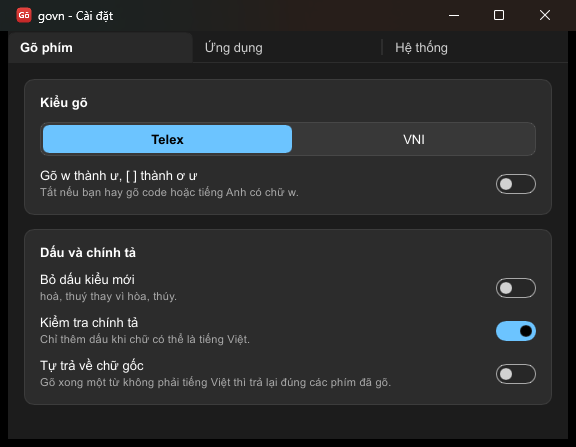
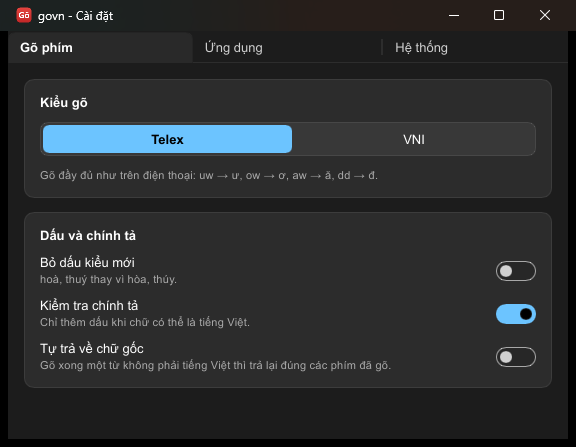
Full tray menu again; Telex without shortcuts only
The tray menu has every option again: typing method, modern tone
placement, spelling, auto-restore, suggestion fix, start with Windows,
admin mode, settings, update check and quit.

Telex is now always the engine's Simple Telex: marks are typed in full
(uw, ow, aw) as on phone keyboards, while w alone and [ ] stay as typed.
The "w -> ư" switch and the Simple Telex menu items are gone; settings
files that say simple or simple2 read as Telex.

diff --git a/app/src/tray.rs b/app/src/tray.rs
@@ -3,7 +3,7 @@
 //! `STATE` is never kept borrowed across a Win32 call that can pump messages, because the keyboard
 //! hook runs on this same thread and borrows it too.
 use crate::admin;
-use crate::config::{AppMemory, Hotkey, Settings, SuggestionFix};
+use crate::config::{self, AppMemory, Hotkey, Settings, SuggestionFix};
 use crate::tray_ids::*;
 use crate::update::{self, Check};
 use crate::{apply_settings, current_settings, wide, STATE};
@@ -30,7 +30,7 @@ use windows_sys::Win32::UI::Shell::{
 use windows_sys::Win32::UI::WindowsAndMessaging::{
     AppendMenuW, ChangeWindowMessageFilterEx, CheckMenuRadioItem, CreateIconIndirect, CreatePopupMenu, CreateWindowExW, DefWindowProcW, DestroyMenu, EnableMenuItem, GetCursorPos,
     GetSystemMetrics, MessageBoxW, PostMessageW, PostQuitMessage, RegisterClassW, RegisterWindowMessageW,
-    SetForegroundWindow, TrackPopupMenu, HICON, HMENU, ICONINFO, MB_ICONERROR, MB_ICONWARNING, MB_OK, MB_YESNO, MF_BYCOMMAND, MF_CHECKED, MF_GRAYED, MSGFLT_ALLOW, IDYES, MF_SEPARATOR,
+    SetForegroundWindow, TrackPopupMenu, HICON, HMENU, ICONINFO, MB_ICONERROR, MB_ICONWARNING, MB_OK, MB_YESNO, MF_BYCOMMAND, MF_CHECKED, MF_GRAYED, MSGFLT_ALLOW, IDYES, MF_POPUP, MF_SEPARATOR,
     MB_ICONINFORMATION, MF_STRING, SM_CXSMICON, TPM_RETURNCMD, TPM_RIGHTBUTTON, WM_COMMAND, WM_LBUTTONDBLCLK, WM_LBUTTONUP, WM_NULL, WM_RBUTTONUP, WNDCLASSW,
     WS_POPUP,
 };
@@ -145,12 +145,7 @@ fn copy_utf16(dst: &mut [u16], text: &str) {
 }
 
 fn method_name(m: InputMethod) -> &'static str {
-    match m {
-        InputMethod::Telex => "Telex",
-        InputMethod::Vni => "VNI",
-        InputMethod::SimpleTelex => "Simple Telex",
-        InputMethod::SimpleTelex2 => "Simple Telex 2",
-    }
+    if m == InputMethod::Vni { "VNI" } else { "Telex" }
 }
 
 unsafe fn icon_data() -> NOTIFYICONDATAW {
@@ -474,14 +469,8 @@ fn run_command(cmd: usize) {
                 let on = !st.engine.viet_key;
                 crate::set_viet(st, on);
             }
-            // Any Telex variant already counts as Telex; from VNI, take the default variant (w stays w).
-            CMD_TELEX if st.engine.input_method() == InputMethod::Vni => {
-                st.engine.set_input_method(InputMethod::SimpleTelex)
-            }
-            CMD_TELEX => {}
+            CMD_TELEX => st.engine.set_input_method(config::TELEX),
             CMD_VNI => st.engine.set_input_method(InputMethod::Vni),
-            CMD_SIMPLE => st.engine.set_input_method(InputMethod::SimpleTelex),
-            CMD_SIMPLE2 => st.engine.set_input_method(InputMethod::SimpleTelex2),
             CMD_MODERN => options.modern_style = !options.modern_style,
             CMD_SPELL => options.spell_check = !options.spell_check,
             CMD_RESTORE => options.auto_non_vn_restore = !options.auto_non_vn_restore,
@@ -506,26 +495,52 @@ unsafe fn add_item(menu: HMENU, id: usize, text: &str, checked: bool) {
     AppendMenuW(menu, flags, id, wide(text).as_ptr());
 }
 
-/// The everyday switches only; everything else is in the settings window. The other commands still
-/// work when posted, which the end-to-end test relies on.
 unsafe fn show_menu() {
     let (Some(s), Some((viet, _))) = (snapshot(), shown_state()) else { return };
     let has_settings = STATE.with_borrow(|st| st.as_ref().is_some_and(|st| st.config_path.is_some()));
+
+    let admin_on = ADMIN_ENABLED.get();
+    let autostart = admin_on || autostart_get(&autostart_key()).is_some();
+
+    // Every option stays reachable from here; the settings window is a roomier view of the same.
+    let methods = CreatePopupMenu();
+    add_item(methods, CMD_TELEX, "Telex", false);
+    add_item(methods, CMD_VNI, "VNI", false);
+    let method_id = if s.method == InputMethod::Vni { CMD_VNI } else { CMD_TELEX };
+    CheckMenuRadioItem(methods, CMD_TELEX as u32, CMD_VNI as u32, method_id as u32, MF_BYCOMMAND);
+
+    let fixes = CreatePopupMenu();
+    add_item(fixes, CMD_FIX_AUTO, "Tự động (trình duyệt, Excel)", false);
+    add_item(fixes, CMD_FIX_ALWAYS, "Luôn bật", false);
+    add_item(fixes, CMD_FIX_NEVER, "Tắt", false);
+    let fix_id = match s.suggestion_fix {
+        SuggestionFix::Auto => CMD_FIX_AUTO,
+        SuggestionFix::Always => CMD_FIX_ALWAYS,
+        SuggestionFix::Never => CMD_FIX_NEVER,
+    };
+    CheckMenuRadioItem(fixes, CMD_FIX_AUTO as u32, CMD_FIX_NEVER as u32, fix_id as u32, MF_BYCOMMAND);
 
     let menu = CreatePopupMenu();
     let toggle = if s.hotkey == Hotkey::None { "Tiếng Việt".to_string() } else { format!("Tiếng Việt\t{}", s.hotkey.label()) };
     add_item(menu, CMD_TOGGLE, &toggle, viet);
     AppendMenuW(menu, MF_SEPARATOR, 0, null());
-    add_item(menu, CMD_TELEX, "Telex", false);
-    add_item(menu, CMD_VNI, "VNI", false);
-    // Simple Telex is a Telex option in the settings window.
-    let method_id = if s.method == InputMethod::Vni { CMD_VNI } else { CMD_TELEX };
-    CheckMenuRadioItem(menu, CMD_TELEX as u32, CMD_VNI as u32, method_id as u32, MF_BYCOMMAND);
+    AppendMenuW(menu, MF_POPUP, methods as usize, wide(&format!("Kiểu gõ: {}", method_name(s.method))).as_ptr());
+    add_item(menu, CMD_MODERN, "Bỏ dấu kiểu mới (oà, uý)", s.modern_style);
+    add_item(menu, CMD_SPELL, "Kiểm tra chính tả", s.spell_check);
+    add_item(menu, CMD_RESTORE, "Tự trả về chữ gốc khi không phải tiếng Việt", s.auto_restore);
+    AppendMenuW(menu, MF_POPUP, fixes as usize, wide("Sửa lỗi gợi ý tự động").as_ptr());
+    AppendMenuW(menu, MF_SEPARATOR, 0, null());
+    add_item(menu, CMD_AUTOSTART, "Khởi động cùng Windows", autostart);
+    if admin_on {
+        EnableMenuItem(menu, CMD_AUTOSTART as u32, MF_BYCOMMAND | MF_GRAYED);
+    }
+    add_item(menu, CMD_ADMIN, "Chạy với quyền admin", admin_on);
     AppendMenuW(menu, MF_SEPARATOR, 0, null());
     add_item(menu, CMD_SETTINGS, "Cài đặt...", false);
     if !has_settings {
         EnableMenuItem(menu, CMD_SETTINGS as u32, MF_BYCOMMAND | MF_GRAYED);
     }
+    add_item(menu, CMD_CHECK_UPDATE, "Kiểm tra cập nhật", false);
     add_item(menu, CMD_QUIT, "Thoát\tCtrl+Alt+Shift+Q", false);
 
     let window = WINDOW.get();

diff --git a/app/src/config.rs b/app/src/config.rs
@@ -69,8 +69,7 @@ impl Default for Settings {
         let o = Options::default();
         Settings {
             viet: true,
-            // w alone stays w: fewer surprises when typing English or code.
-            method: InputMethod::SimpleTelex,
+            method: TELEX,
             modern_style: o.modern_style,
             spell_check: o.spell_check,
             auto_restore: o.auto_non_vn_restore,
@@ -133,12 +132,7 @@ impl Settings {
     }
 
     pub fn serialize(&self) -> String {
-        let method = match self.method {
-            InputMethod::Telex => "telex",
-            InputMethod::Vni => "vni",
-            InputMethod::SimpleTelex => "simple",
-            InputMethod::SimpleTelex2 => "simple2",
-        };
+        let method = if self.method == InputMethod::Vni { "vni" } else { "telex" };
         let fix = match self.suggestion_fix {
             SuggestionFix::Auto => "auto",
             SuggestionFix::Always => "always",
@@ -226,12 +220,15 @@ impl AppMemory {
     }
 }
 
+/// govn's Telex: every mark is typed in full (`uw` for ư, `ow` for ơ), as on phone keyboards.
+/// `w` alone and `[ ]` stay as typed; the engine's shortcut variants are not offered.
+pub const TELEX: InputMethod = InputMethod::SimpleTelex;
+
+/// Older versions wrote "simple" and "simple2" too; all Telex variants now mean [`TELEX`].
 pub fn parse_method(v: &str) -> Option<InputMethod> {
     match v {
-        "telex" => Some(InputMethod::Telex),
+        "telex" | "simple" | "simple2" => Some(TELEX),
         "vni" => Some(InputMethod::Vni),
-        "simple" => Some(InputMethod::SimpleTelex),
-        "simple2" => Some(InputMethod::SimpleTelex2),
         _ => None,
     }
 }
@@ -271,6 +268,17 @@ mod tests {
             let s = Settings { hotkey: h, ..Settings::default() };
             assert_eq!(Settings::parse(&s.serialize()).hotkey, h);
         }
+    }
+
+    #[test]
+    fn every_telex_variant_reads_as_telex() {
+        for old in ["telex", "simple", "simple2"] {
+            let s = Settings::parse(&format!("method={old}\n"));
+            assert_eq!(s.method, TELEX, "{old}");
+            assert!(s.serialize().contains("method=telex\n"));
+        }
+        assert_eq!(Settings::default().method, TELEX);
+        assert_eq!(Settings::parse("method=vni\n").method, InputMethod::Vni);
     }
 
     #[test]
@@ -316,7 +324,7 @@ mod tests {
     fn save_and_load() {
         let dir = std::env::temp_dir().join(format!("govn-config-test-{}", std::process::id()));
         let path = dir.join("nested").join("settings.ini");
-        let s = Settings { method: InputMethod::SimpleTelex2, english_apps: vec!["a.exe".into()], ..Settings::default() };
+        let s = Settings { method: InputMethod::Vni, english_apps: vec!["a.exe".into()], ..Settings::default() };
         s.save(&path).unwrap();
         assert_eq!(Settings::load(&path), s);
         let mem_path = AppMemory::path_for(&path);

diff --git a/app/src/settings.rs b/app/src/settings.rs
@@ -50,14 +50,8 @@ fn edit(path: &Path, change: impl FnOnce(&mut Settings)) -> bool {
     true
 }
 
-fn method_from(ui: &SettingsWindow, previous: InputMethod) -> InputMethod {
-    match (ui.get_method(), ui.get_w_shortcuts()) {
-        (1, _) => InputMethod::Vni,
-        // Simple Telex 2 (w but no brackets) is kept for those who chose it in an older version.
-        (_, true) if previous == InputMethod::SimpleTelex2 => InputMethod::SimpleTelex2,
-        (_, true) => InputMethod::Telex,
-        (_, false) => InputMethod::SimpleTelex,
-    }
+fn method_from(ui: &SettingsWindow) -> InputMethod {
+    if ui.get_method() == 1 { InputMethod::Vni } else { crate::config::TELEX }
 }
 
 /// The "File description" in a program's version information, such as "Visual Studio Code".
@@ -200,8 +194,6 @@ pub fn run(path: PathBuf, task: String, autostart_key: String) -> i32 {
     let path = Rc::new(path);
 
     ui.set_method(i32::from(s.method == InputMethod::Vni));
-    // Under VNI the switch shows the default, which is also what choosing Telex gives.
-    ui.set_w_shortcuts(matches!(s.method, InputMethod::Telex | InputMethod::SimpleTelex2));
     ui.set_modern_style(s.modern_style);
     ui.set_spell_check(s.spell_check);
     ui.set_auto_restore(s.auto_restore);
@@ -230,7 +222,7 @@ pub fn run(path: PathBuf, task: String, autostart_key: String) -> i32 {
         move || {
             let Some(ui) = ui.upgrade() else { return };
             edit(&path, |s| {
-                s.method = method_from(&ui, s.method);
+                s.method = method_from(&ui);
                 s.modern_style = ui.get_modern_style();
                 s.spell_check = ui.get_spell_check();
                 s.auto_restore = ui.get_auto_restore();

diff --git a/engine/tests/typing.rs b/engine/tests/typing.rs
@@ -162,3 +162,26 @@ fn no_key_sequence_panics() {
         }
     }
 }
+
+/// govn offers Telex as the engine's Simple Telex: marks typed in full, no `w` or `[ ]` shortcuts.
+#[test]
+fn simple_telex_has_no_shortcuts() {
+    let mut e = Engine::new();
+    e.set_input_method(InputMethod::SimpleTelex);
+    for (keys, want) in [
+        ("w", "w"),
+        ("[", "["),
+        ("]", "]"),
+        ("windows", "windows"),
+        ("uw", "ư"),
+        ("ow", "ơ"),
+        ("aw", "ă"),
+        ("tuw", "tư"),
+        ("nguoiwf", "người"),
+        ("dduwowngf", "đường"),
+        ("tieengs vieetj", "tiếng việt"),
+    ] {
+        e.reset();
+        assert_eq!(type_all(&mut e, keys), want, "{keys}");
+    }
+}

diff --git a/app/src/main.rs b/app/src/main.rs
@@ -445,7 +445,7 @@ fn wide(s: &str) -> Vec<u16> {
     s.encode_utf16().chain(std::iter::once(0)).collect()
 }
 
-const USAGE: &str = "govn [--method telex|vni|simple|simple2] [--modern] [--no-spell-check] [--auto-restore] [--off] [--suggestion-fix auto|always|never] [--config <file>] [--settings]";
+const USAGE: &str = "govn [--method telex|vni] [--modern] [--no-spell-check] [--auto-restore] [--off] [--suggestion-fix auto|always|never] [--config <file>] [--settings]";
 
 /// Command-line values override the saved settings.
 #[derive(Default)]

diff --git a/app/src/tray_ids.rs b/app/src/tray_ids.rs
@@ -18,8 +18,6 @@ pub const WM_RELOAD: u32 = WM_APP + 5;
 pub const CMD_TOGGLE: usize = 1001;
 pub const CMD_TELEX: usize = 1010;
 pub const CMD_VNI: usize = 1011;
-pub const CMD_SIMPLE: usize = 1012;
-pub const CMD_SIMPLE2: usize = 1013;
 pub const CMD_MODERN: usize = 1020;
 pub const CMD_SPELL: usize = 1021;
 pub const CMD_RESTORE: usize = 1022;

diff --git a/CLAUDE.md b/CLAUDE.md
@@ -24,9 +24,10 @@ Cửa sổ Cài đặt là tiến trình riêng: `govn.exe --settings --config <
 
 ## Ràng buộc khi sửa
 
-- **Telex và VNI là hai kiểu gõ duy nhất trên giao diện.** SimpleTelex/SimpleTelex2 vẫn có trong engine; nút "Gõ w thành ư" trong Cài đặt chọn giữa Telex và SimpleTelex, và giữ nguyên SimpleTelex2 nếu người dùng đã chọn từ bản cũ.
+- **Chỉ có Telex và VNI, không có kiểu gõ tắt.** Telex của govn là `InputMethod::SimpleTelex` của engine (`config::TELEX`): gõ đầy đủ như trên điện thoại (`uw` → ư, `ow` → ơ); `w` đứng riêng và `[ ]` giữ nguyên. Telex/SimpleTelex2 của engine không đưa ra giao diện; file cài đặt cũ ghi `simple`, `simple2` đều đọc thành Telex.
+- **Menu khay giữ đủ mọi tùy chọn** (người dùng muốn ai thích chỉnh gì thì chỉnh ngay ở đó); cửa sổ Cài đặt là chỗ rộng hơn cho cùng các tùy chọn, cộng danh sách ứng dụng và phím tắt.
 - **Không thêm gõ tắt** và các tính năng phụ kiểu đó; người dùng đã quyết định giữ app gọn.
-- **Mặc định:** Simple Telex (`w` đứng riêng vẫn là `w`; chọn Telex khi đang ở VNI cũng ra Simple Telex), bỏ dấu kiểu cũ, phím tắt Ctrl+Shift. Chỉ đổi khi người dùng yêu cầu, vì đổi mặc định là đổi hành vi với người mới cài.
+- **Mặc định:** Telex, bỏ dấu kiểu cũ, phím tắt Ctrl+Shift. Chỉ đổi khi người dùng yêu cầu, vì đổi mặc định là đổi hành vi với người mới cài.
 - **Mạng:** `update.rs` là kết nối mạng duy nhất và chỉ chạy khi người dùng bấm. Không gửi gì liên quan tới phím đã gõ, không tự tải hay tự cài.
 - **Engine:** chuỗi phím bất kỳ không được panic. Khi đổi logic engine, chạy `tools/difftest.py` so với bản C++ gốc.
 

diff --git a/README.md b/README.md
@@ -23,9 +23,9 @@ Chạy `govn.exe`: không có cửa sổ, chỉ có icon ở khay hệ thống. 
 
 - Icon **V** đỏ: tiếng Việt. Icon **E** xám: English.
 - Nhấp trái icon hoặc nhấn phím tắt (mặc định Ctrl+Shift): bật/tắt.
-- Nhấp phải icon: bật/tắt, Telex/VNI, Cài đặt, thoát. Nhấp đúp icon cũng mở Cài đặt.
+- Nhấp phải icon: menu có đủ mọi tùy chọn (kiểu gõ, bỏ dấu, chính tả, sửa lỗi gợi ý, khởi động cùng Windows, quyền admin, kiểm tra cập nhật), cùng mục Cài đặt và Thoát. Nhấp đúp icon cũng mở Cài đặt.
 - Cửa sổ Cài đặt:
-  - **Gõ phím:** Telex/VNI, gõ `w` thành `ư` và `[ ]` thành `ơ ư` (mặc định tắt, tức Simple Telex), bỏ dấu kiểu mới, kiểm tra chính tả, tự trả về chữ gốc.
+  - **Gõ phím:** Telex hoặc VNI, bỏ dấu kiểu mới, kiểm tra chính tả, tự trả về chữ gốc.
   - **Ứng dụng:** danh sách ứng dụng luôn gõ tiếng Anh, chọn từ các cửa sổ đang mở (ghi tên ứng dụng kèm tên file, như "Visual Studio Code (code.exe)"); nhớ tiếng Việt/tiếng Anh theo từng ứng dụng.
   - **Hệ thống:** phím tắt (Ctrl+Shift, Ctrl+Alt, Alt+Z hoặc không dùng), khởi động cùng Windows, chạy với quyền admin, kiểm tra cập nhật.
 
@@ -39,7 +39,7 @@ Cài đặt lưu ở `%APPDATA%\govn\settings.ini`; trạng thái nhớ theo ứ
 Tham số dòng lệnh ghi đè cài đặt đã lưu:
 
 ```
-govn [--method telex|vni|simple|simple2] [--modern] [--no-spell-check] [--auto-restore] [--off] [--suggestion-fix auto|always|never] [--config <file>] [--settings]
+govn [--method telex|vni] [--modern] [--no-spell-check] [--auto-restore] [--off] [--suggestion-fix auto|always|never] [--config <file>] [--settings]
 ```
 
 ### Ứng dụng chạy quyền admin
